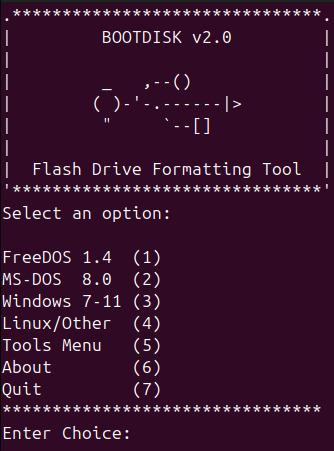
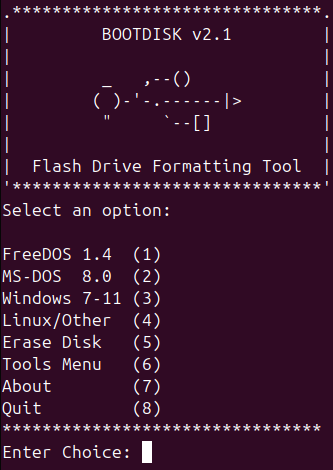
Update screenshots and README.md for new features.

diff --git a/README.md b/README.md
@@ -23,6 +23,8 @@ Features
 
 - Create a boot disk using the pre-built [UEFI Shell](https://github.com/pbatard/UEFI-Shell) image provided by Pete Batard.
 
+- Erase and format media as FAT, exFAT, NTFS, EXT2/3/4, UDF, JHFS+ and APFS. [^3]
+
 - Download official retail Windows ISOs and UEFI Shell ISOs using the [Fido](https://github.com/pbatard/Fido) script.
 
 - Calculate the SHA-1 checksum for Windows ISO files and search the [sha1.rg-adguard.net](https://sha1.rg-adguard.net) databases.
@@ -74,3 +76,4 @@ Dependencies
 
 [^1]: See the Troubleshooting section of [NOTES](https://github.com/jpz4085/BOOTDISK/blob/main/Support/NOTES.md) for help if the terminal is forced closed due to a memory issue.  
 [^2]: Persistence partitions are supported on Debian, Fedora, Gentoo, Ubuntu and related distributions.
+[^3]: The script supports all default file system options on the host platform as well as NTFS on macOS.
